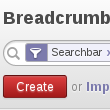
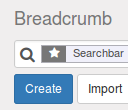
[MIG] web_searchbar_full_width : migrate to v9.0

diff --git a/web_searchbar_full_width/static/src/css/web_searchbar_full_width.css b/web_searchbar_full_width/static/src/css/web_searchbar_full_width.css
@@ -1,20 +1,8 @@
-.openerp .oe_application .oe_breadcrumb_item:not(:last-child)
-{
-    max-width: inherit;
-}
-.openerp .oe_searchview
-{
+.openerp .oe-control-panel .oe-cp-title {
     width: 100%;
 }
-.openerp .oe_view_manager_current > .oe_view_manager_header .oe_header_row_top td
-{
-    padding-bottom: 0px;
-}
-.openerp .oe_view_manager_current > .oe_view_manager_header span.oe_breadcrumb_item
-{
-    padding-top: 3px;
-}
-.openerp .oe_view_manager table.oe_view_manager_header h2
-{
-    line-height: 20px;
+.openerp .oe-control-panel .oe-cp-search-view {
+    padding-top: 0px;
+    padding-bottom: 3px;
+    width: 100%;
 }

diff --git a/web_searchbar_full_width/__openerp__.py b/web_searchbar_full_width/__openerp__.py
@@ -20,9 +20,10 @@
 ##############################################################################
 {
     "name": "Full width searchbar",
-    "version": "8.0.1.0.0",
+    "version": "9.0.1.0.0",
     "author": "Therp BV, "
-              "Odoo Community Association (OCA)",
+              "Odoo Community Association (OCA), "
+              "Siddharth Bhalgami",
     "license": "AGPL-3",
     "category": "Tools",
     "summary": "Show search bar in full screen width",
@@ -32,15 +33,5 @@
     "data": [
         'views/templates.xml',
     ],
-    "qweb": [
-        'static/src/xml/web_searchbar_full_width.xml',
-    ],
-    "test": [
-    ],
-    "auto_install": False,
-    "installable": True,
-    "application": False,
-    "external_dependencies": {
-        'python': [],
-    },
+    'installable': True,
 }

diff --git a/web_searchbar_full_width/README.rst b/web_searchbar_full_width/README.rst
@@ -25,6 +25,7 @@ Contributors
 ------------
 
 * Holger Brunn <[email redacted]>
+* Siddharth Bhalgami <[email redacted]>
 
 Maintainer
 ----------